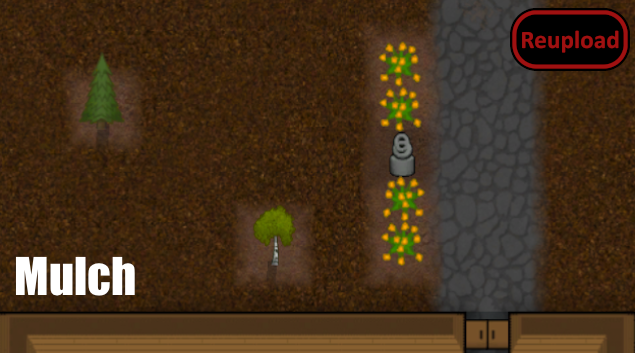
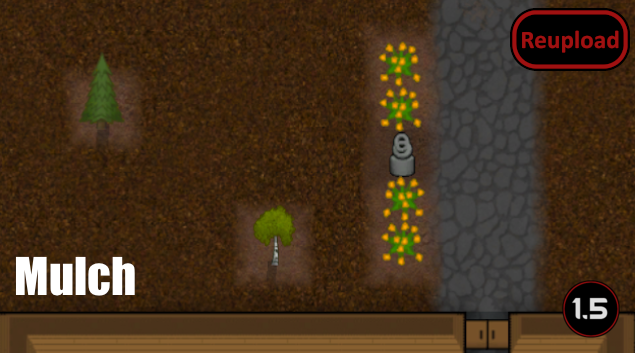
Mod updated for 1.5 and passed autotests

Changed region(s): [[0.8677, 0.779, 0.9874, 0.966]]

diff --git a/README.md b/README.md
@@ -39,11 +39,13 @@ A direct download is available here: http://mathbeing.net/downloads/Rimworld/
 
 -  See if the the error persists if you just have this mod and its requirements active.
 -  If not, try adding your other mods until it happens again.
--  Post your error-log using https://steamcommunity.com/workshop/filedetails/?id=818773962]HugsLib and command Ctrl+F12
+-  Post your error-log using https://steamcommunity.com/workshop/filedetails/?id=818773962]HugsLib or the standalone https://steamcommunity.com/sharedfiles/filedetails/?id=2873415404]Uploader and command Ctrl+F12
 -  For best support, please use the Discord-channel for error-reporting.
 -  Do not report errors by making a discussion-thread, I get no notification of that.
 -  If you have the solution for a problem, please post it to the GitHub repository.
+-  Use https://github.com/RimSort/RimSort/releases/latest]RimSort to sort your mods
 
 
 
+https://steamcommunity.com/sharedfiles/filedetails/changelog/2030393196]![Image](https://img.shields.io/github/v/release/emipa606/Mulch?label=latest%20version&style=plastic&color=9f1111&labelColor=black)
 
